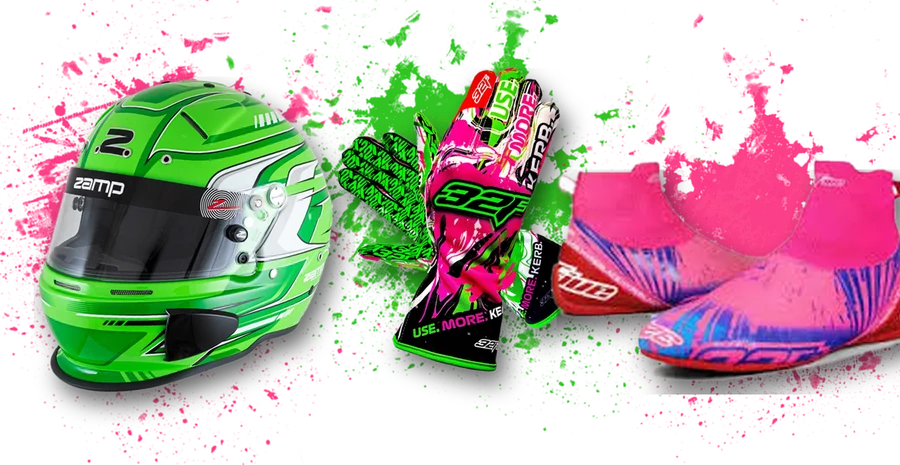
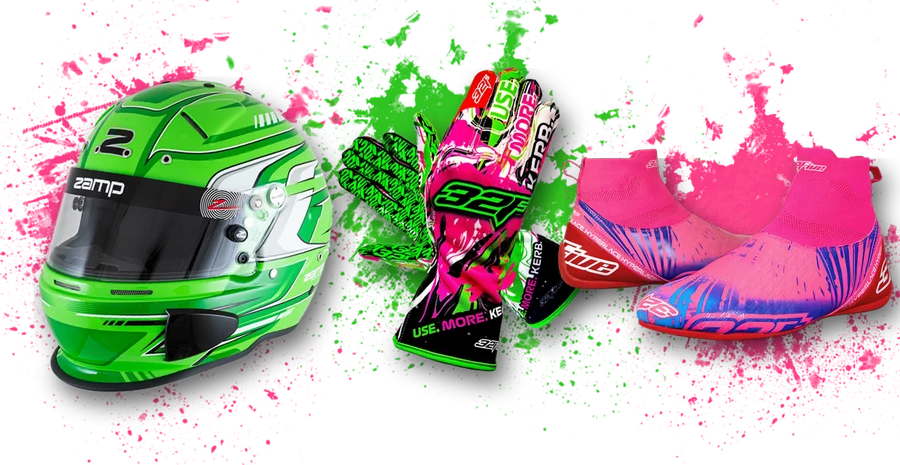
Store: sharp high-res 32Five Hyperlace boots on the Helmet28 card
Claude-Session: https://claude.ai/code/session_015VNHxvPxgc79iAZc2QEA9e

Changed region(s): [[0.5911, 0.3011, 1.0, 0.8731]]

diff --git a/sw.js b/sw.js
@@ -1,7 +1,7 @@
 /* Season Planner offline support.
    Pages and race data: try the network first (so updates show straight away), fall back to the saved copy when offline.
    Logos, icons and fonts: use the saved copy, refresh it in the background. */
-const CACHE = "umk-planner-v27";
+const CACHE = "umk-planner-v28";
 const CORE = [
   "./", "index.html", "manifest.webmanifest", "version.json",
   "data/races.json", "data/brad.json",
